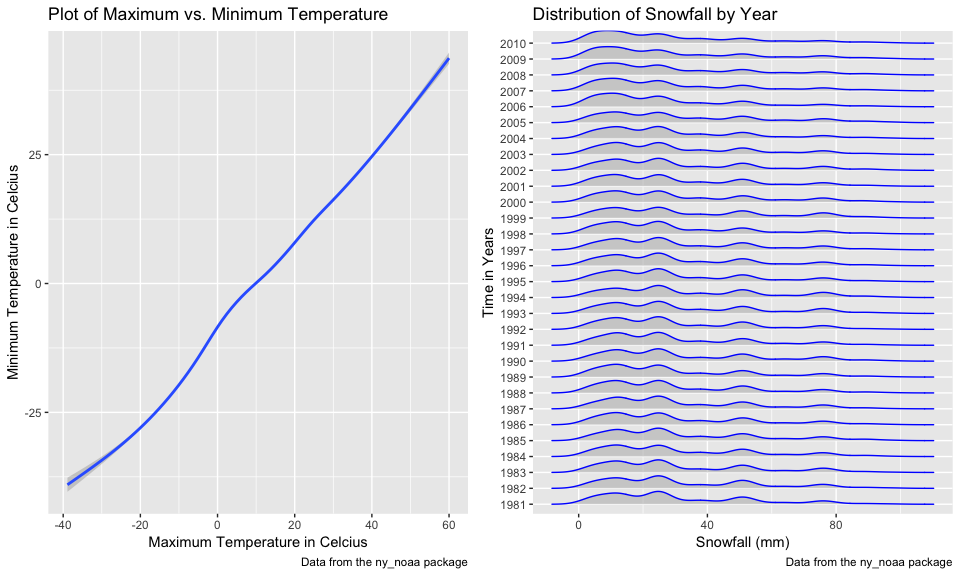
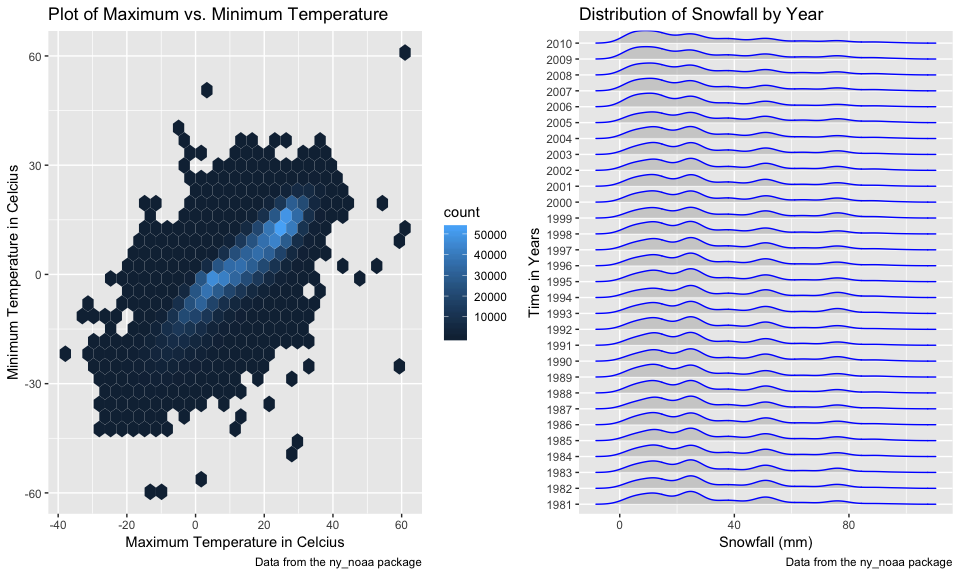
Editing the plots

diff --git a/p8105_hw3_kb2977.md b/p8105_hw3_kb2977.md
@@ -160,7 +160,6 @@ Problem 2
 
 ``` r
 data(instacart)
-library(forcats)
 ```
 
 ### Part 1: Exploration of instacart dataset
@@ -203,7 +202,7 @@ items_ordered =
   labs(
       title = "Plot of Items Ordered in Each Aisle",
       x = "Aisle Name",
-      y = "Number of items",
+      y = "Number of Items",
       caption = "Data from the instacart package"
   )
 items_ordered
@@ -300,10 +299,11 @@ For snowfall, the most commonly observed value was 0. This is because most days 
 ave_temp = 
   ny_noaa_clean %>% 
   filter(month == "01" | month == "07") %>% 
+  mutate(month = recode(month, "01" = "January", "07" = "July")) %>% 
   group_by(month, id, year) %>% 
   summarize(ave_max_temp = mean(tmax)) %>% 
-  ggplot(aes(x = id, y = ave_max_temp)) +
-  geom_point() +
+  ggplot(aes(x = year, y = ave_max_temp)) +
+  geom_hex() +
   facet_grid(~month) +
   theme(axis.text.x = element_text(angle = 45, hjust = 1), text = element_text(size = 7)) +
   labs(
@@ -315,7 +315,7 @@ ave_temp =
 ave_temp
 ```
 
-    ## Warning: Removed 7058 rows containing missing values (geom_point).
+    ## Warning: Removed 7058 rows containing non-finite values (stat_binhex).
 
 <img src="p8105_hw3_kb2977_files/figure-markdown_github/ave_temp-1.png" width="100%" />
 
@@ -332,7 +332,7 @@ devtools::install_github("thomasp85/patchwork")
 temp_plot = 
   ny_noaa_clean %>% 
   ggplot(aes(x = tmax, y = tmin)) +
-  geom_smooth() +
+  geom_hex() +
   labs(
       title = "Plot of Maximum vs. Minimum Temperature",
       x = "Maximum Temperature in Celcius",
@@ -355,9 +355,7 @@ snowfall_plot =
 temp_plot + snowfall_plot
 ```
 
-    ## `geom_smooth()` using method = 'gam' and formula 'y ~ s(x, bs = "cs")'
-
-    ## Warning: Removed 1136276 rows containing non-finite values (stat_smooth).
+    ## Warning: Removed 1136276 rows containing non-finite values (stat_binhex).
 
     ## Picking joint bandwidth of 3.76
 
